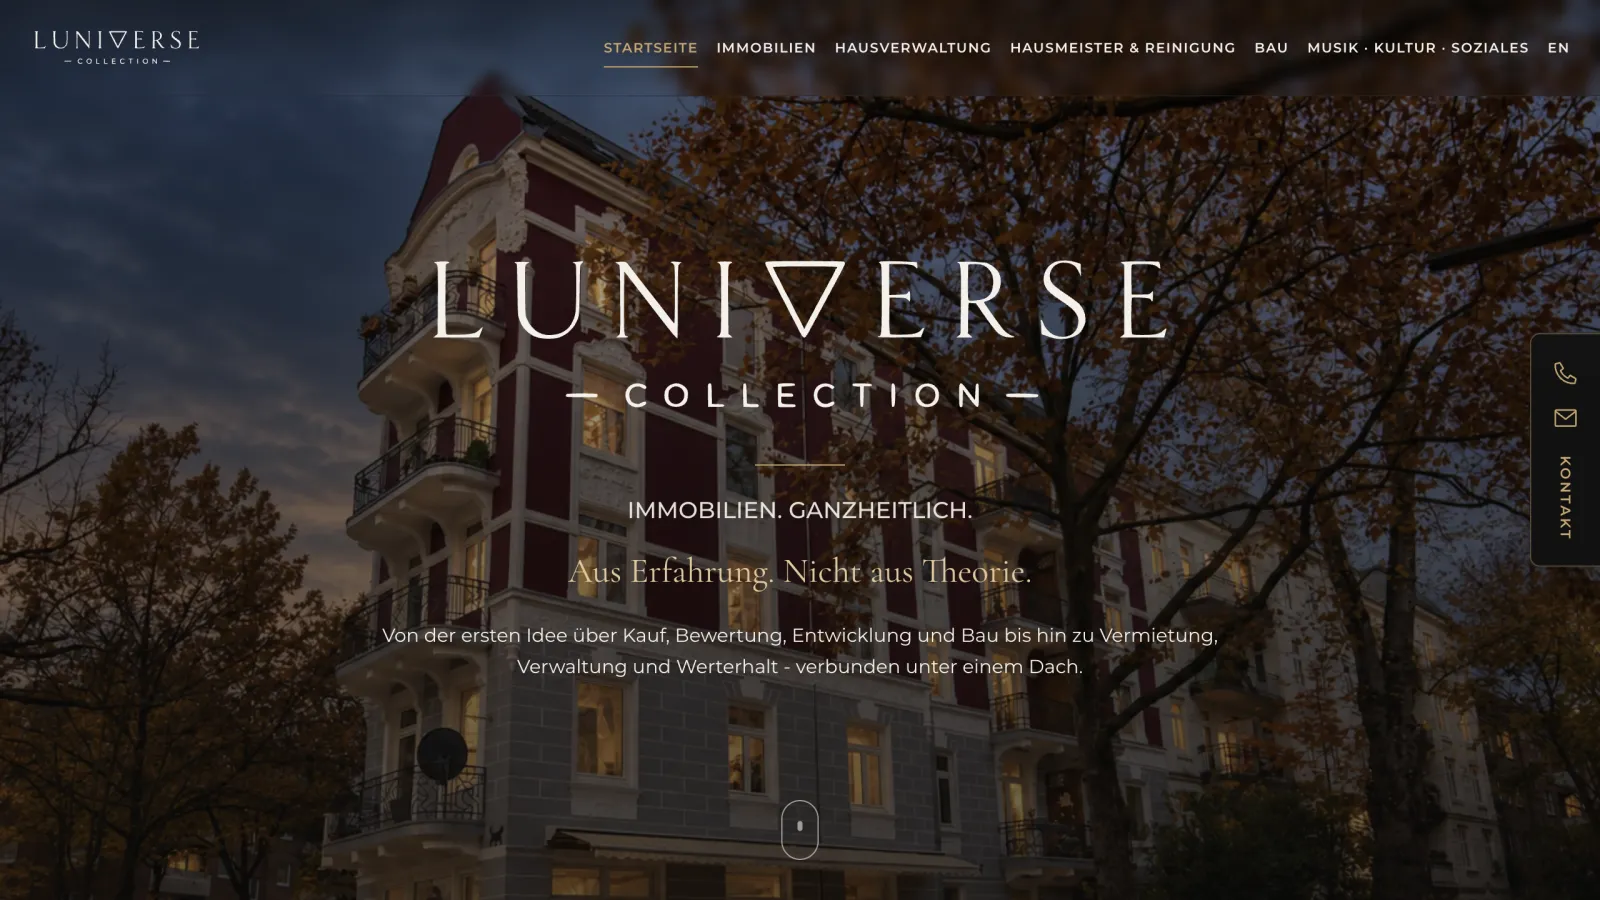
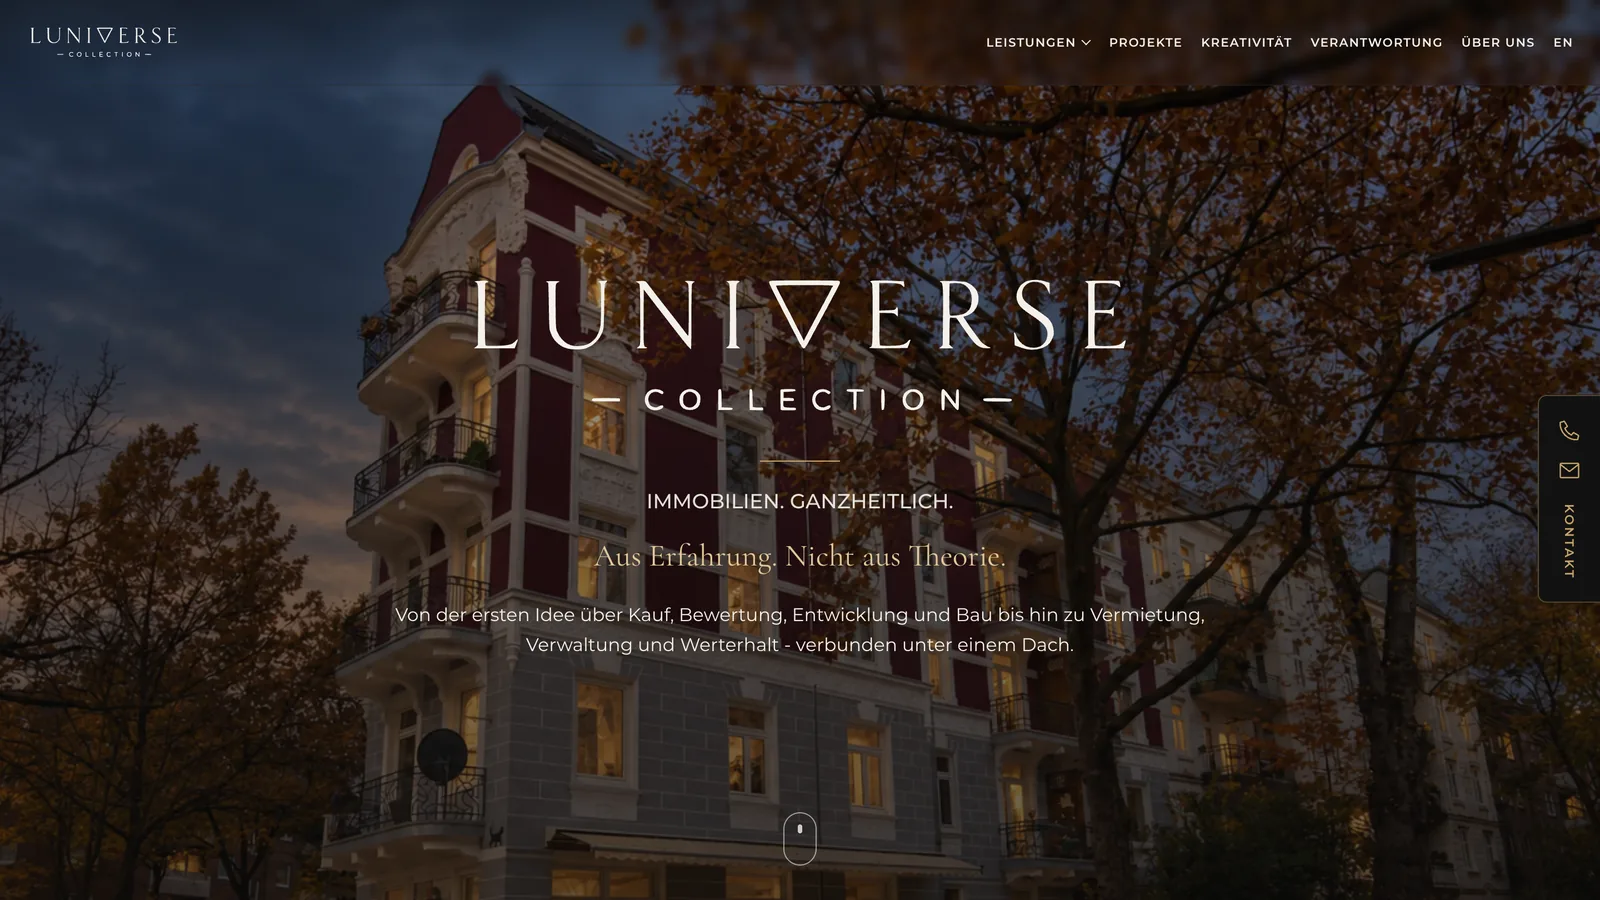
Bring the profile up to date
- Add markusblaschyk.de
- Retake the LUNIVERSE screenshot with the current navigation
- Add the page transitions and the runtime-free export to LUNIVERSE,
  and say "up to three widths" for the image pipeline
- Update Belegsuche to 384 tests and the held-out search result
- Describe atelier-heimw.de as HTML and CSS with a little JavaScript

diff --git a/README.md b/README.md
@@ -5,22 +5,25 @@
 I build websites and practical tools, and I like the operations side too:
 Linux servers, reverse proxies, deployment and CI.
 
-**Stack:** TypeScript · Next.js · React · Node.js · HTML/CSS · Python ·
-Linux · NGINX · GitHub Actions · Netlify
+**Stack:** TypeScript · Next.js · React · Node.js · HTML · CSS · JavaScript ·
+Python · Linux · NGINX · GitHub Actions · Netlify
 
 ## LUNIVERSE Collection
 
 [![Homepage of the LUNIVERSE Collection website](./assets/luniverse-collection.webp)](https://luniverse-collection.com)
 
-A website for LUNIVERSE Collection in German and English, built with Next.js,
-React and TypeScript as a static export on Netlify.
+A website for LUNIVERSE Collection, a real-estate company, in German and
+English, built with Next.js, React and TypeScript as a static export on Netlify.
 
 - German and English page trees with translated URLs, for example
-  `/ueber-uns` and `/en/about-us`
-- a build-time image pipeline with sharp that writes AVIF, WebP and JPEG in
-  three widths and respects EXIF orientation
-- contact forms on Netlify Forms with a confirmation page per language, and
-  redirects to one canonical host
+  `/ueber-uns` and `/en/about-us`, linked to each other with `hreflang`
+- cross-document page transitions with the View Transitions API: a photo tile
+  grows into the photo at the top of the page it opens, off for visitors who
+  prefer reduced motion
+- a static export without the React client runtime: a post-build step strips
+  it, so the pages run only the site's own plain JavaScript
+- an image pipeline with sharp that writes AVIF, WebP and JPEG in up to three
+  widths per image and respects EXIF orientation
 
 [Visit the website](https://luniverse-collection.com) · The source code is private.
 
@@ -37,15 +40,31 @@ SQLite full-text search, so no document leaves the machine.
   compound words and typos
 - incremental indexing that survives an unplugged drive and resumes where it
   stopped
-- search quality measured on a generated test corpus with held-out queries,
-  and 212 tests that run on macOS in CI
+- search quality measured on a generated corpus of 64 fictitious files: the
+  expected document ranks first for all 16 held-out queries
+- 384 tests that run on macOS in CI with Python 3.11 and 3.12
 
-[Source code](https://github.com/alsharmani0/belegsuche)
+[Source code](https://github.com/alsharmani0/belegsuche) · Documentation in German.
+
+## markusblaschyk.de
+
+Website for a family-run construction company in Düren, built from HTML, CSS
+and JavaScript and deployed by Netlify on every push to main.
+
+- a small Python build script that assembles the pages from a shared layout,
+  reads image dimensions from the files, adds `srcset` to the large photos and
+  writes the sitemap, security headers and redirects from the old site's URLs
+- no cookies, no tracking and no third-party requests: self-hosted fonts and
+  an enquiry form that opens the visitor's email app instead of posting to a
+  server
+
+[Visit the website](https://www.markusblaschyk.de) · The source code is private.
 
 ## atelier-heimw.de
 
-Website for a jewellery and workshop atelier in Eckernförde, live on its own
-domain. Plain HTML and CSS, hosted on Netlify.
+Website for a jewellery atelier in Eckernförde that also runs jewellery-making
+workshops. Plain HTML and CSS with a little JavaScript, no framework and no
+build step, hosted on Netlify.
 
 [Visit the website](https://atelier-heimw.de) · The source code is private.
 
